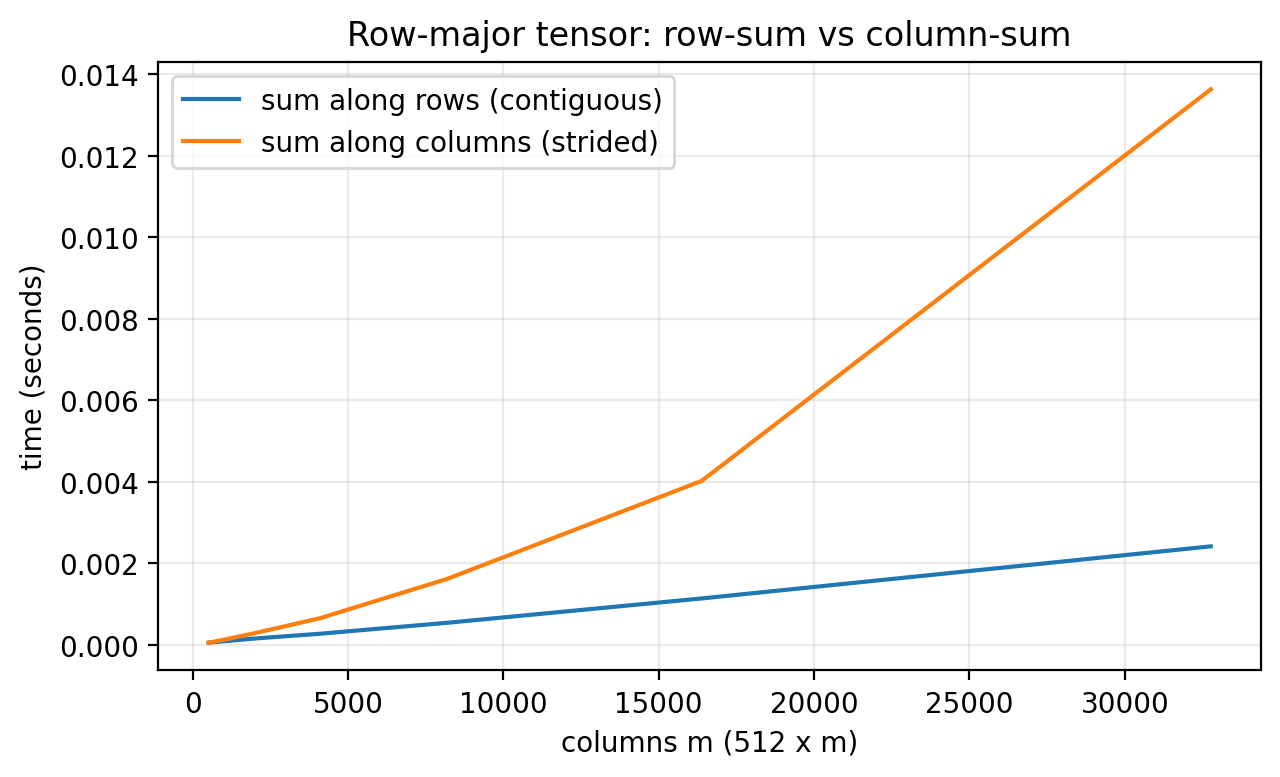
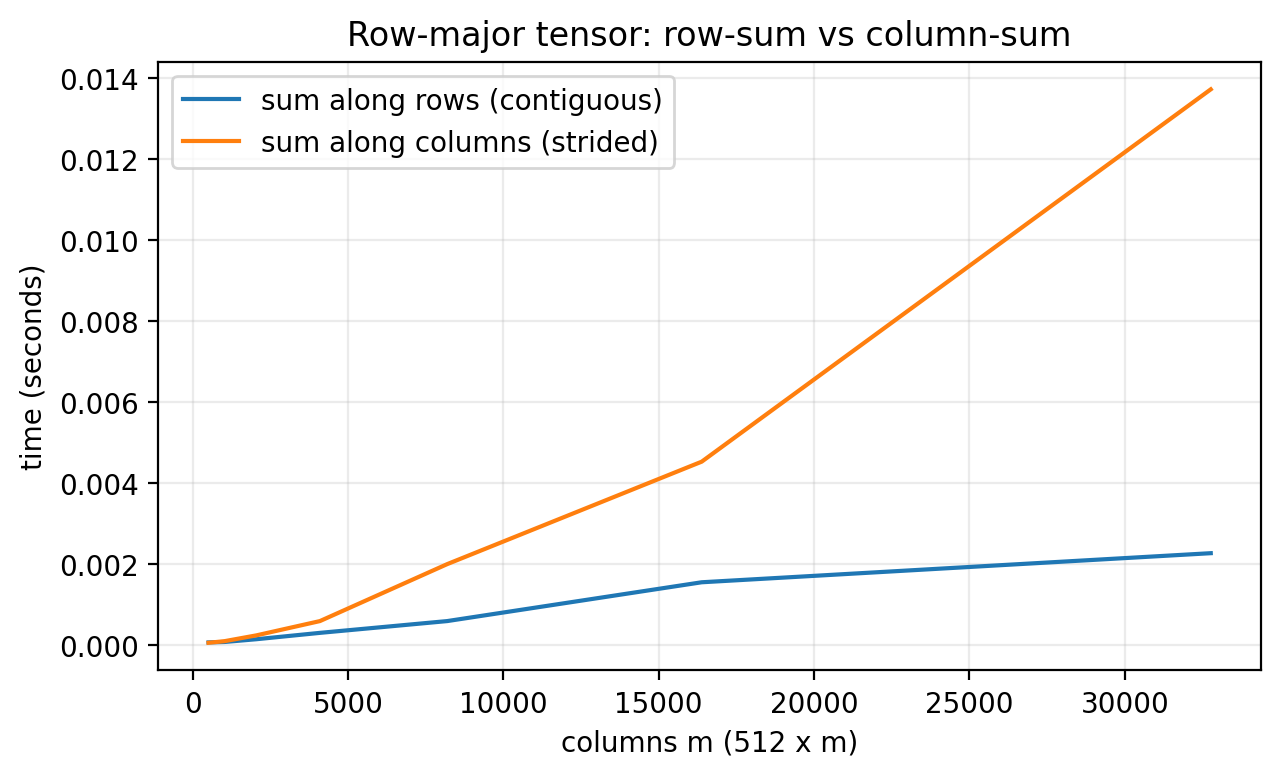
Updated execution counts in the live demo notebook to reflect a fresh run and improved installation instructions in the notes for setting up the development environment, including steps for installing `uv` and handling virtual environments. Updated memory layout efficiency figure.

diff --git a/section/3/notes.md b/section/3/notes.md
@@ -315,9 +315,24 @@ A venv is the minimum mechanism that makes Python reproducible.
 
 Below is the basic workflow we will use.
 
-1. Create a venv in the repo (often `.venv/`).
-2. Install packages into that venv.
-3. Run scripts using the venv Python.
+1. Install `uv` once per machine.
+2. Create a venv in the repo (often `.venv/`).
+3. Install packages into that venv.
+4. Run scripts using the venv Python.
+
+Install `uv` (first time only):
+
+Linux/macOS:
+
+```bash
+curl -LsSf https://astral.sh/uv/install.sh | sh
+```
+
+Windows (PowerShell):
+
+```powershell
+irm https://astral.sh/uv/install.ps1 | iex
+```
 
 A typical sequence (Linux/macOS):
 
@@ -335,6 +350,20 @@ uv venv
 .\.venv\Scripts\Activate.ps1
 uv pip install torch matplotlib numpy
 python .\script\gd_1d_torch.py
+```
+
+If your environment gets into a bad state, delete `.venv` and recreate it:
+
+Linux/macOS:
+
+```bash
+rm -rf .venv
+```
+
+Windows (PowerShell):
+
+```powershell
+Remove-Item -Recurse -Force .venv
 ```
 
 We will automate most of this so you can clone a repo and run a single install command.
